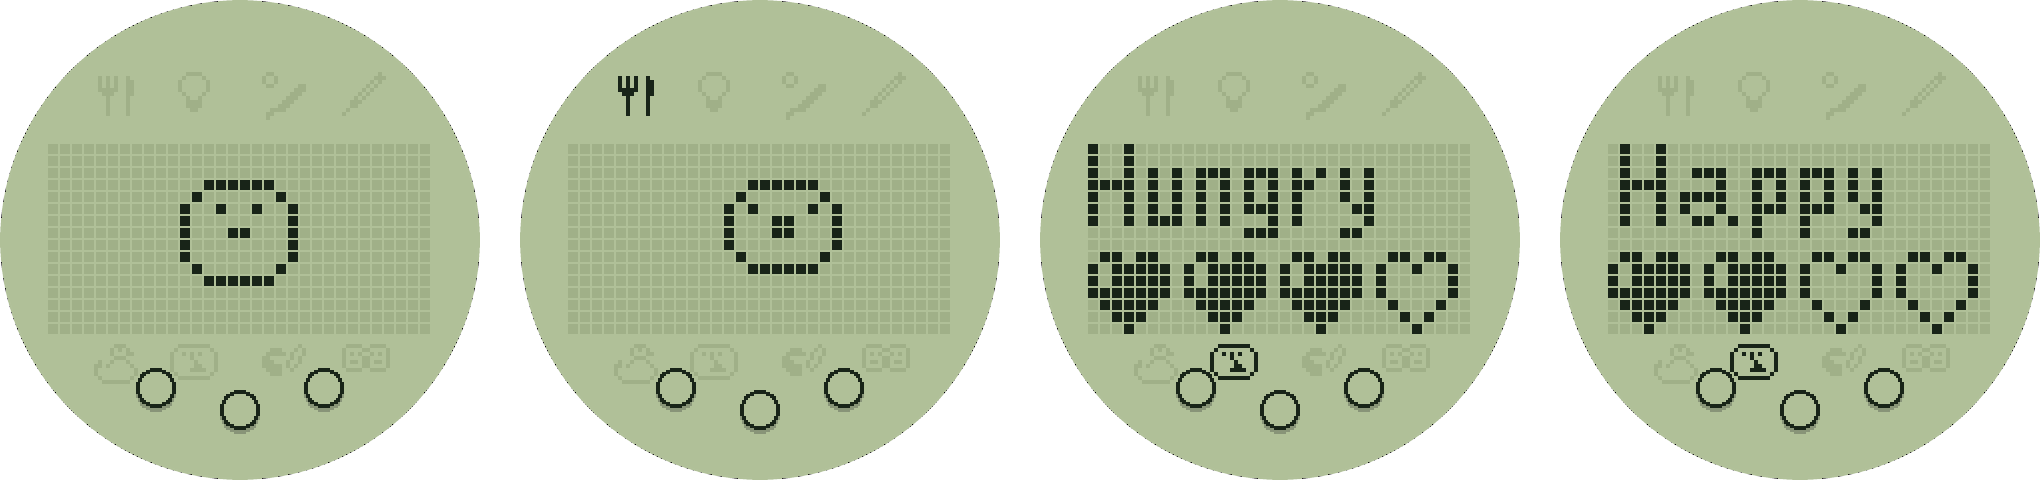
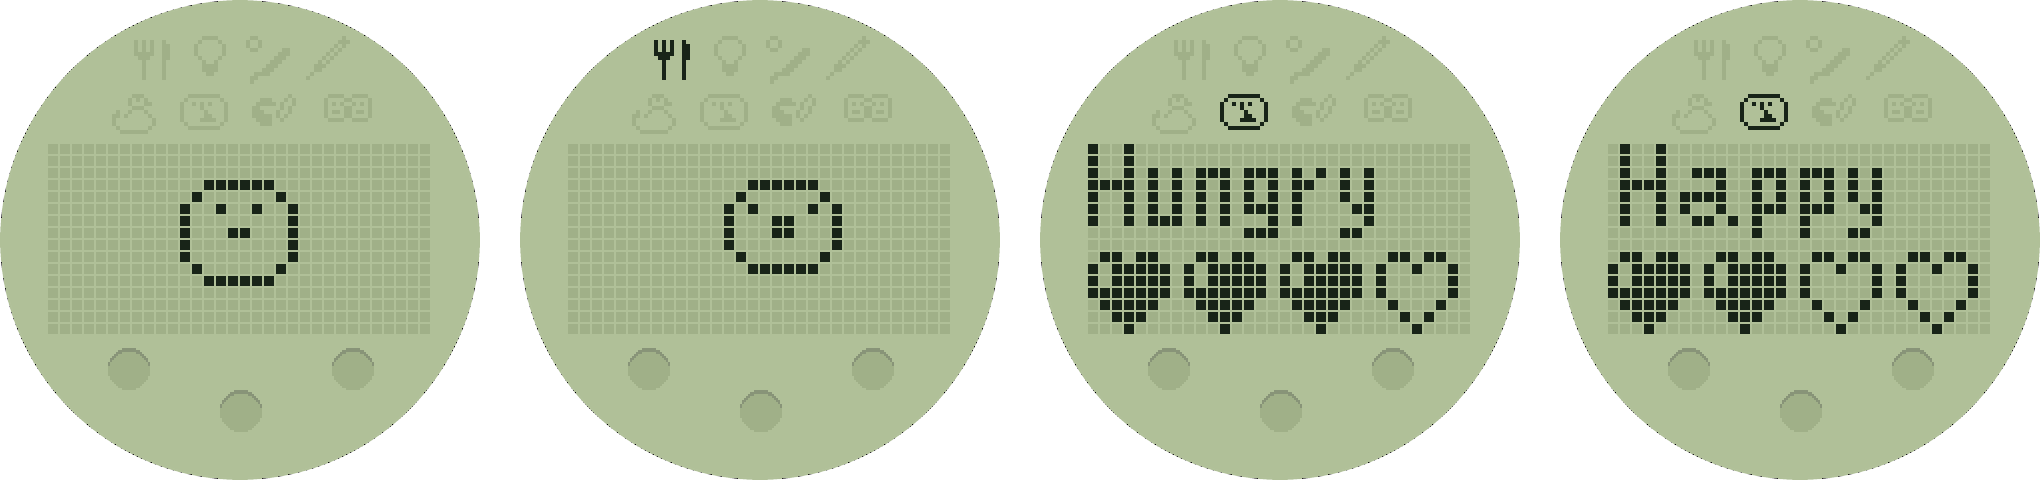
ui: pet screen in the owner's Alt 4 layout
Both icon rows sit above the centred LCD (row 1 at y 30, row 2 at y 57,
wider to follow the round edge). A and C move out to 56 px from B on the
same r 85 arc, so the strip splits at 92/148. Idle keys are recessed
wells: a ghost disc with a 2 px shadow lip on top; a held key is ink.

diff --git a/test/host/test_ui_render.c b/test/host/test_ui_render.c
@@ -65,14 +65,14 @@ static void test_last_pixel_position(void)
 
 static void test_icon_lit(void)
 {
-    frame.icons = 1u << 7;  // Attention: bottom row, centre (183,182), top-left (171,170)
+    frame.icons = 1u << 7;  // Attention: second row, centre (174,57), top-left (162,45)
     render(0);
-    TEST_ASSERT_EQUAL_HEX16(INK, PX(171 + 2, 170 + 2));
-    TEST_ASSERT_EQUAL_HEX16(INK, PX(171 + 3, 170 + 3));
-    TEST_ASSERT_EQUAL_HEX16(BG, PX(171, 170));     // cell (0,0) is off
+    TEST_ASSERT_EQUAL_HEX16(INK, PX(162 + 2, 45 + 2));
+    TEST_ASSERT_EQUAL_HEX16(INK, PX(162 + 3, 45 + 3));
+    TEST_ASSERT_EQUAL_HEX16(BG, PX(162, 45));     // cell (0,0) is off
     frame.icons = 0;
     render(0);
-    TEST_ASSERT_EQUAL_HEX16(GHOST, PX(171 + 2, 170 + 2));
+    TEST_ASSERT_EQUAL_HEX16(GHOST, PX(162 + 2, 45 + 2));
 }
 
 static void test_p2_medicine_differs(void)
@@ -84,7 +84,7 @@ static void test_p2_medicine_differs(void)
     for (int y = 0; y < UI_H; y++)
         for (int x = 0; x < UI_W; x++)
             if (fb[y * UI_W + x] != fb2[y * UI_W + x]) {
-                TEST_ASSERT_TRUE_MESSAGE(x >= 171 && x <= 194 && y >= 36 && y <= 59, "diff outside Medicine icon");
+                TEST_ASSERT_TRUE_MESSAGE(x >= 153 && x <= 176 && y >= 18 && y <= 41, "diff outside Medicine icon");
                 diffs++;
             }
     TEST_ASSERT_GREATER_THAN(0, diffs);
@@ -97,20 +97,22 @@ static void test_pet_layout(void)
     TEST_ASSERT_EQUAL_HEX16(GHOST, PX(UI_LCD_X, UI_LCD_Y));   // first dot, unlit
     TEST_ASSERT_EQUAL_HEX16(BG, PX(UI_LCD_X, UI_LCD_Y - 1));
     TEST_ASSERT_EQUAL_HEX16(BG, PX(UI_LCD_X, UI_LCD_Y + 96));  // just under the LCD's last dot row
-    // LCD centred on the screen; icon boxes: 24 px centred at y 48 (top) and 182 (bottom), x centres 57, 97, 143, 183
+    // LCD centred on the screen; both icon rows above it (Alt 4): row 1 at y 30, x 75/105/135/165;
+    // row 2 at y 57, x 66/102/138/174 (24 px boxes)
     TEST_ASSERT_EQUAL_INT(UI_H / 2, UI_LCD_Y + 16 * UI_LCD_PITCH / 2);
-    static const int cx[4] = { 57, 97, 143, 183 }, cy[2] = { 48, 182 };
-    for (int r = 0; r < 2; r++)
-        for (int i = 0; i < 4; i++) {
-            int ink = 0;
-            for (int y = cy[r] - 12; y < cy[r] + 12; y++)
-                for (int x = cx[i] - 12; x < cx[i] + 12; x++) ink += PX(x, y) == INK;
-            TEST_ASSERT_GREATER_THAN_MESSAGE(10, ink, "icon missing at its new place");
-        }
-    // nothing ink between the top icons and the LCD, or between the LCD and the bottom icons
-    for (int x = 30; x < 210; x++) {
-        TEST_ASSERT_NOT_EQUAL_HEX16(INK, PX(x, 66));
-        TEST_ASSERT_NOT_EQUAL_HEX16(INK, PX(x, 168));
+    static const int c[8][2] = { { 75, 30 }, { 105, 30 }, { 135, 30 }, { 165, 30 },
+                                 { 66, 57 }, { 102, 57 }, { 138, 57 }, { 174, 57 } };
+    for (int i = 0; i < 8; i++) {
+        int ink = 0;
+        for (int y = c[i][1] - 12; y < c[i][1] + 12; y++)
+            for (int x = c[i][0] - 12; x < c[i][0] + 12; x++) ink += PX(x, y) == INK;
+        TEST_ASSERT_GREATER_THAN_MESSAGE(10, ink, "icon missing at its new place");
+    }
+    // nothing ink between the rows, between row 2 and the LCD, or anywhere under the LCD when no key is held
+    for (int x = 0; x < UI_W; x++) {
+        TEST_ASSERT_NOT_EQUAL_HEX16(INK, PX(x, 43));
+        TEST_ASSERT_NOT_EQUAL_HEX16(INK, PX(x, 70));
+        for (int y = UI_LCD_Y + 96; y < UI_H; y++) TEST_ASSERT_NOT_EQUAL_HEX16(INK, PX(x, y));
     }
 }
 
@@ -127,16 +129,21 @@ static int ink_near(int cx, int cy, int r)
 
 static void test_buttons_drawn(void)
 {
+    // idle key: a recessed well, a ghost disc whose top 2 px crescent is shadow; no letter, no outline
     render(0);
+    const uint16_t shadow = ui_rgb565(ui_mix(UI_PALETTE_CLASSIC.bg, (ui_rgb_t){ 0, 0, 0 }, 22));
+    TEST_ASSERT_EQUAL_INT(10, UI_BTN_R);  // 20 px across (owner's pick)
     for (int i = 0; i < 3; i++) {
         int cx, cy;
         ui_button_centre(BTN[i], &cx, &cy);
-        TEST_ASSERT_EQUAL_INT(10, UI_BTN_R);                        // 20 px across (owner's pick)
-        TEST_ASSERT_EQUAL_HEX16(INK, PX(cx, cy - (UI_BTN_R - 1)));  // outline
-        TEST_ASSERT_EQUAL_HEX16(INK, PX(cx - (UI_BTN_R - 1), cy));
-        TEST_ASSERT_EQUAL_INT_MESSAGE(0, ink_near(cx, cy, UI_BTN_R - 4), "the face has no letter");
-        uint16_t shadow = ui_rgb565(ui_mix(UI_PALETTE_CLASSIC.bg, (ui_rgb_t){ 0, 0, 0 }, 22));
-        TEST_ASSERT_EQUAL_HEX16(shadow, PX(cx, cy + UI_BTN_R + 1));  // 2 px shadow under the key
+        TEST_ASSERT_EQUAL_INT_MESSAGE(0, ink_near(cx, cy, UI_BTN_R), "an idle key has no ink");
+        TEST_ASSERT_EQUAL_HEX16(GHOST, PX(cx, cy));
+        TEST_ASSERT_EQUAL_HEX16(GHOST, PX(cx, cy + UI_BTN_R - 1));
+        TEST_ASSERT_EQUAL_HEX16(shadow, PX(cx, cy - UI_BTN_R));      // the well's top lip
+        TEST_ASSERT_EQUAL_HEX16(shadow, PX(cx, cy - UI_BTN_R + 1));
+        TEST_ASSERT_EQUAL_HEX16(GHOST, PX(cx, cy - UI_BTN_R + 2));
+        TEST_ASSERT_EQUAL_HEX16(BG, PX(cx, cy + UI_BTN_R + 1));       // nothing under the key
+        TEST_ASSERT_EQUAL_HEX16(BG, PX(cx, cy - UI_BTN_R - 1));
     }
 }
 
@@ -146,7 +153,7 @@ static void test_held_fills(void)
     for (int i = 0; i < 3; i++) {
         int cx, cy;
         ui_button_centre(BTN[i], &cx, &cy);
-        TEST_ASSERT_EQUAL_HEX16(BTN[i] == TC_BTN_B ? INK : BG, PX(cx, cy));
+        TEST_ASSERT_EQUAL_HEX16(BTN[i] == TC_BTN_B ? INK : GHOST, PX(cx, cy));
     }
     int bx, by;
     ui_button_centre(TC_BTN_B, &bx, &by);
@@ -158,7 +165,7 @@ static void test_held_fills(void)
     for (int i = 0; i < 3; i++) {
         int cx, cy;
         ui_button_centre(BTN[i], &cx, &cy);
-        TEST_ASSERT_EQUAL_HEX16(BTN[i] == TC_BTN_B ? BG : INK, PX(cx, cy));
+        TEST_ASSERT_EQUAL_HEX16(BTN[i] == TC_BTN_B ? GHOST : INK, PX(cx, cy));
     }
 }
 

diff --git a/components/ui/ui_pet.c b/components/ui/ui_pet.c
@@ -3,8 +3,9 @@
 #include "ui.h"
 #include "ui_internal.h"
 
-static const int ICON_CX[4] = { 57, 97, 143, 183 };
-static const int ICON_CY[2] = { 48, 182 };  // bottom row sits in the button strip, just above A and C
+// Both icon rows sit above the LCD (the owner's Alt 4); the second row is wider to follow the round edge.
+static const int ICON_C[8][2] = { { 75, 30 }, { 105, 30 }, { 135, 30 }, { 165, 30 },
+                                  { 66, 57 }, { 102, 57 }, { 138, 57 }, { 174, 57 } };
 
 static void fill(uint16_t *fb, int x, int y, int w, int h, uint16_t c)
 {
@@ -12,15 +13,19 @@ static void fill(uint16_t *fb, int x, int y, int w, int h, uint16_t c)
         for (int i = x; i < x + w; i++) fb[j * UI_W + i] = c;
 }
 
-// A raised key, no letter (like the real P1): shadow 2 px lower, ink outline 2 px, face bg (ink when held).
-static void draw_button(uint16_t *fb, int btn, bool held, uint16_t bg, uint16_t ink, uint16_t shadow)
+// A recessed key, no letter (like the real P1): a ghost well whose top 2 px crescent is shadow; ink when held.
+static void draw_button(uint16_t *fb, int btn, bool held, uint16_t ink, uint16_t ghost, uint16_t shadow)
 {
     int cx, cy;
     ui_button_centre(btn, &cx, &cy);
-    const int d = 2 * UI_BTN_R, x = cx - UI_BTN_R, y = cy - UI_BTN_R;
-    ui_fill_disc(fb, x, y + 2, d, shadow);
-    ui_fill_disc(fb, x, y, d, ink);
-    ui_fill_disc(fb, x + 2, y + 2, d - 4, held ? ink : bg);
+    const int r2 = UI_BTN_R * UI_BTN_R + UI_BTN_R;  // + r: a round edge, no 1 px nubs at the four extremes
+    for (int y = cy - UI_BTN_R; y <= cy + UI_BTN_R; y++)
+        for (int x = cx - UI_BTN_R; x <= cx + UI_BTN_R; x++) {
+            const int dx = x - cx, dy = y - cy;
+            if (dx * dx + dy * dy > r2) continue;
+            const bool lip = dx * dx + (dy - 2) * (dy - 2) > r2;  // outside the disc moved 2 px down
+            fb[y * UI_W + x] = held ? ink : lip ? shadow : ghost;
+        }
 }
 
 void ui_render_pet(uint16_t *fb, const tc_frame_t *f, tc_model_t model, uint8_t held_mask, const ui_palette_t *p)
@@ -34,7 +39,7 @@ void ui_render_pet(uint16_t *fb, const tc_frame_t *f, tc_model_t model, uint8_t 
     for (int i = 0; i < 8; i++) {
         const char *const *rows = (i == 3 && model == TC_MODEL_P2) ? UI_ICON_P2_MEDICINE : UI_ICONS[i];
         const uint16_t on = (f->icons & (1u << i)) ? ink : ghost;
-        const int x0 = ICON_CX[i % 4] - 12, y0 = ICON_CY[i / 4] - 12;
+        const int x0 = ICON_C[i][0] - 12, y0 = ICON_C[i][1] - 12;
         for (int cy = 0; cy < 12; cy++)
             for (int cx = 0; cx < 12; cx++)
                 if (rows[cy][cx] == '#') fill(fb, x0 + 2 * cx, y0 + 2 * cy, 2, 2, on);
@@ -46,7 +51,7 @@ void ui_render_pet(uint16_t *fb, const tc_frame_t *f, tc_model_t model, uint8_t 
                  (f->rows[py] & (1u << px)) ? ink : ghost);
 
     for (int b = TC_BTN_A; b <= TC_BTN_C; b++)
-        draw_button(fb, b, held_mask & TC_BTN_MASK(b), bg, ink, shadow);
+        draw_button(fb, b, held_mask & TC_BTN_MASK(b), ink, ghost, shadow);
 }
 
 void ui_draw_lcd(uint16_t *fb, int x, int y, int scale, const tc_frame_t *f, const ui_palette_t *p)

diff --git a/test/host/test_ui_touch.c b/test/host/test_ui_touch.c
@@ -11,10 +11,10 @@ void tearDown(void) {}
 
 static void test_strip_split(void)
 {
-    TEST_ASSERT_EQUAL_INT(TC_BTN_A, ui_button_at(98, 190));
-    TEST_ASSERT_EQUAL_INT(TC_BTN_B, ui_button_at(99, 190));
-    TEST_ASSERT_EQUAL_INT(TC_BTN_B, ui_button_at(140, 190));
-    TEST_ASSERT_EQUAL_INT(TC_BTN_C, ui_button_at(141, 190));
+    TEST_ASSERT_EQUAL_INT(TC_BTN_A, ui_button_at(91, 190));
+    TEST_ASSERT_EQUAL_INT(TC_BTN_B, ui_button_at(92, 190));
+    TEST_ASSERT_EQUAL_INT(TC_BTN_B, ui_button_at(147, 190));
+    TEST_ASSERT_EQUAL_INT(TC_BTN_C, ui_button_at(148, 190));
     TEST_ASSERT_EQUAL_INT(-1, ui_button_at(120, 167));  // the LCD's last row
     TEST_ASSERT_EQUAL_INT(-1, ui_button_at(120, 169));
     TEST_ASSERT_EQUAL_INT(TC_BTN_B, ui_button_at(120, 170));
@@ -25,8 +25,8 @@ static void test_strip_split(void)
 
 static void test_button_centres(void)
 {
-    // on an arc concentric with the screen (radius 85 from (120,120)): B at the bottom, A and C 42 px out
-    static const int want[3][2] = { { 78, 194 }, { 120, 205 }, { 162, 194 } };
+    // on an arc concentric with the screen (radius 85 from (120,120)): B at the bottom, A and C 56 px out
+    static const int want[3][2] = { { 64, 184 }, { 120, 205 }, { 176, 184 } };
     static const int btn[3] = { TC_BTN_A, TC_BTN_B, TC_BTN_C };
     for (int i = 0; i < 3; i++) {
         int x = -1, y = -1;

diff --git a/components/ui/include/ui.h b/components/ui/include/ui.h
@@ -34,8 +34,8 @@ void ui_render_pet(uint16_t *fb, const tc_frame_t *f, tc_model_t model,
 #define UI_BTN_R     10   // pet button radius: 20 px across, no letter (like the real P1)
 
 // Pet-screen buttons. The strip is y from the LCD's bottom + 2 to the bottom edge band (170..215 on 240x240).
-// The keys sit on an arc concentric with the screen: B at (UI_W/2, strip bottom - UI_BTN_R), A and C 42 px to
-// either side on the same arc ((78,194), (120,205), (162,194) on 240x240).
+// The keys sit on an arc concentric with the screen: B at (UI_W/2, strip bottom - UI_BTN_R), A and C 56 px to
+// either side on the same arc ((64,184), (120,205), (176,184) on 240x240).
 void ui_button_centre(int btn, int *x, int *y);   // btn = TC_BTN_A/B/C
 // TC_BTN_A/B/C for a point in the strip (split halfway between the centres, so every circle presses only its
 // own button), -1 elsewhere (the LCD, the icons above it, the bottom edge band).

diff --git a/components/ui/ui_touch.c b/components/ui/ui_touch.c
@@ -1,7 +1,7 @@
 // SPDX-License-Identifier: GPL-3.0-or-later
 #include "ui.h"
 
-#define BTN_DX 42   // A and C sit this far left and right of B, on B's arc
+#define BTN_DX 56   // A and C sit this far left and right of B, on B's arc
 
 static int strip_top(void) { return UI_LCD_Y + 16 * UI_LCD_PITCH + 2; }
 static int strip_bottom(void) { return UI_H - UI_EDGE_BAND - 1; }
@@ -22,7 +22,7 @@ void ui_button_centre(int btn, int *x, int *y)
     *y = cy + isqrt(ra * ra - dx * dx);
 }
 
-// Split halfway between the button centres: x < 99 A, 99..140 B, >= 141 C on 240 px.
+// Split halfway between the button centres: x < 92 A, 92..147 B, >= 148 C on 240 px.
 static int button_for_x(int x)
 {
     if (x < UI_W / 2 - BTN_DX / 2) return TC_BTN_A;
